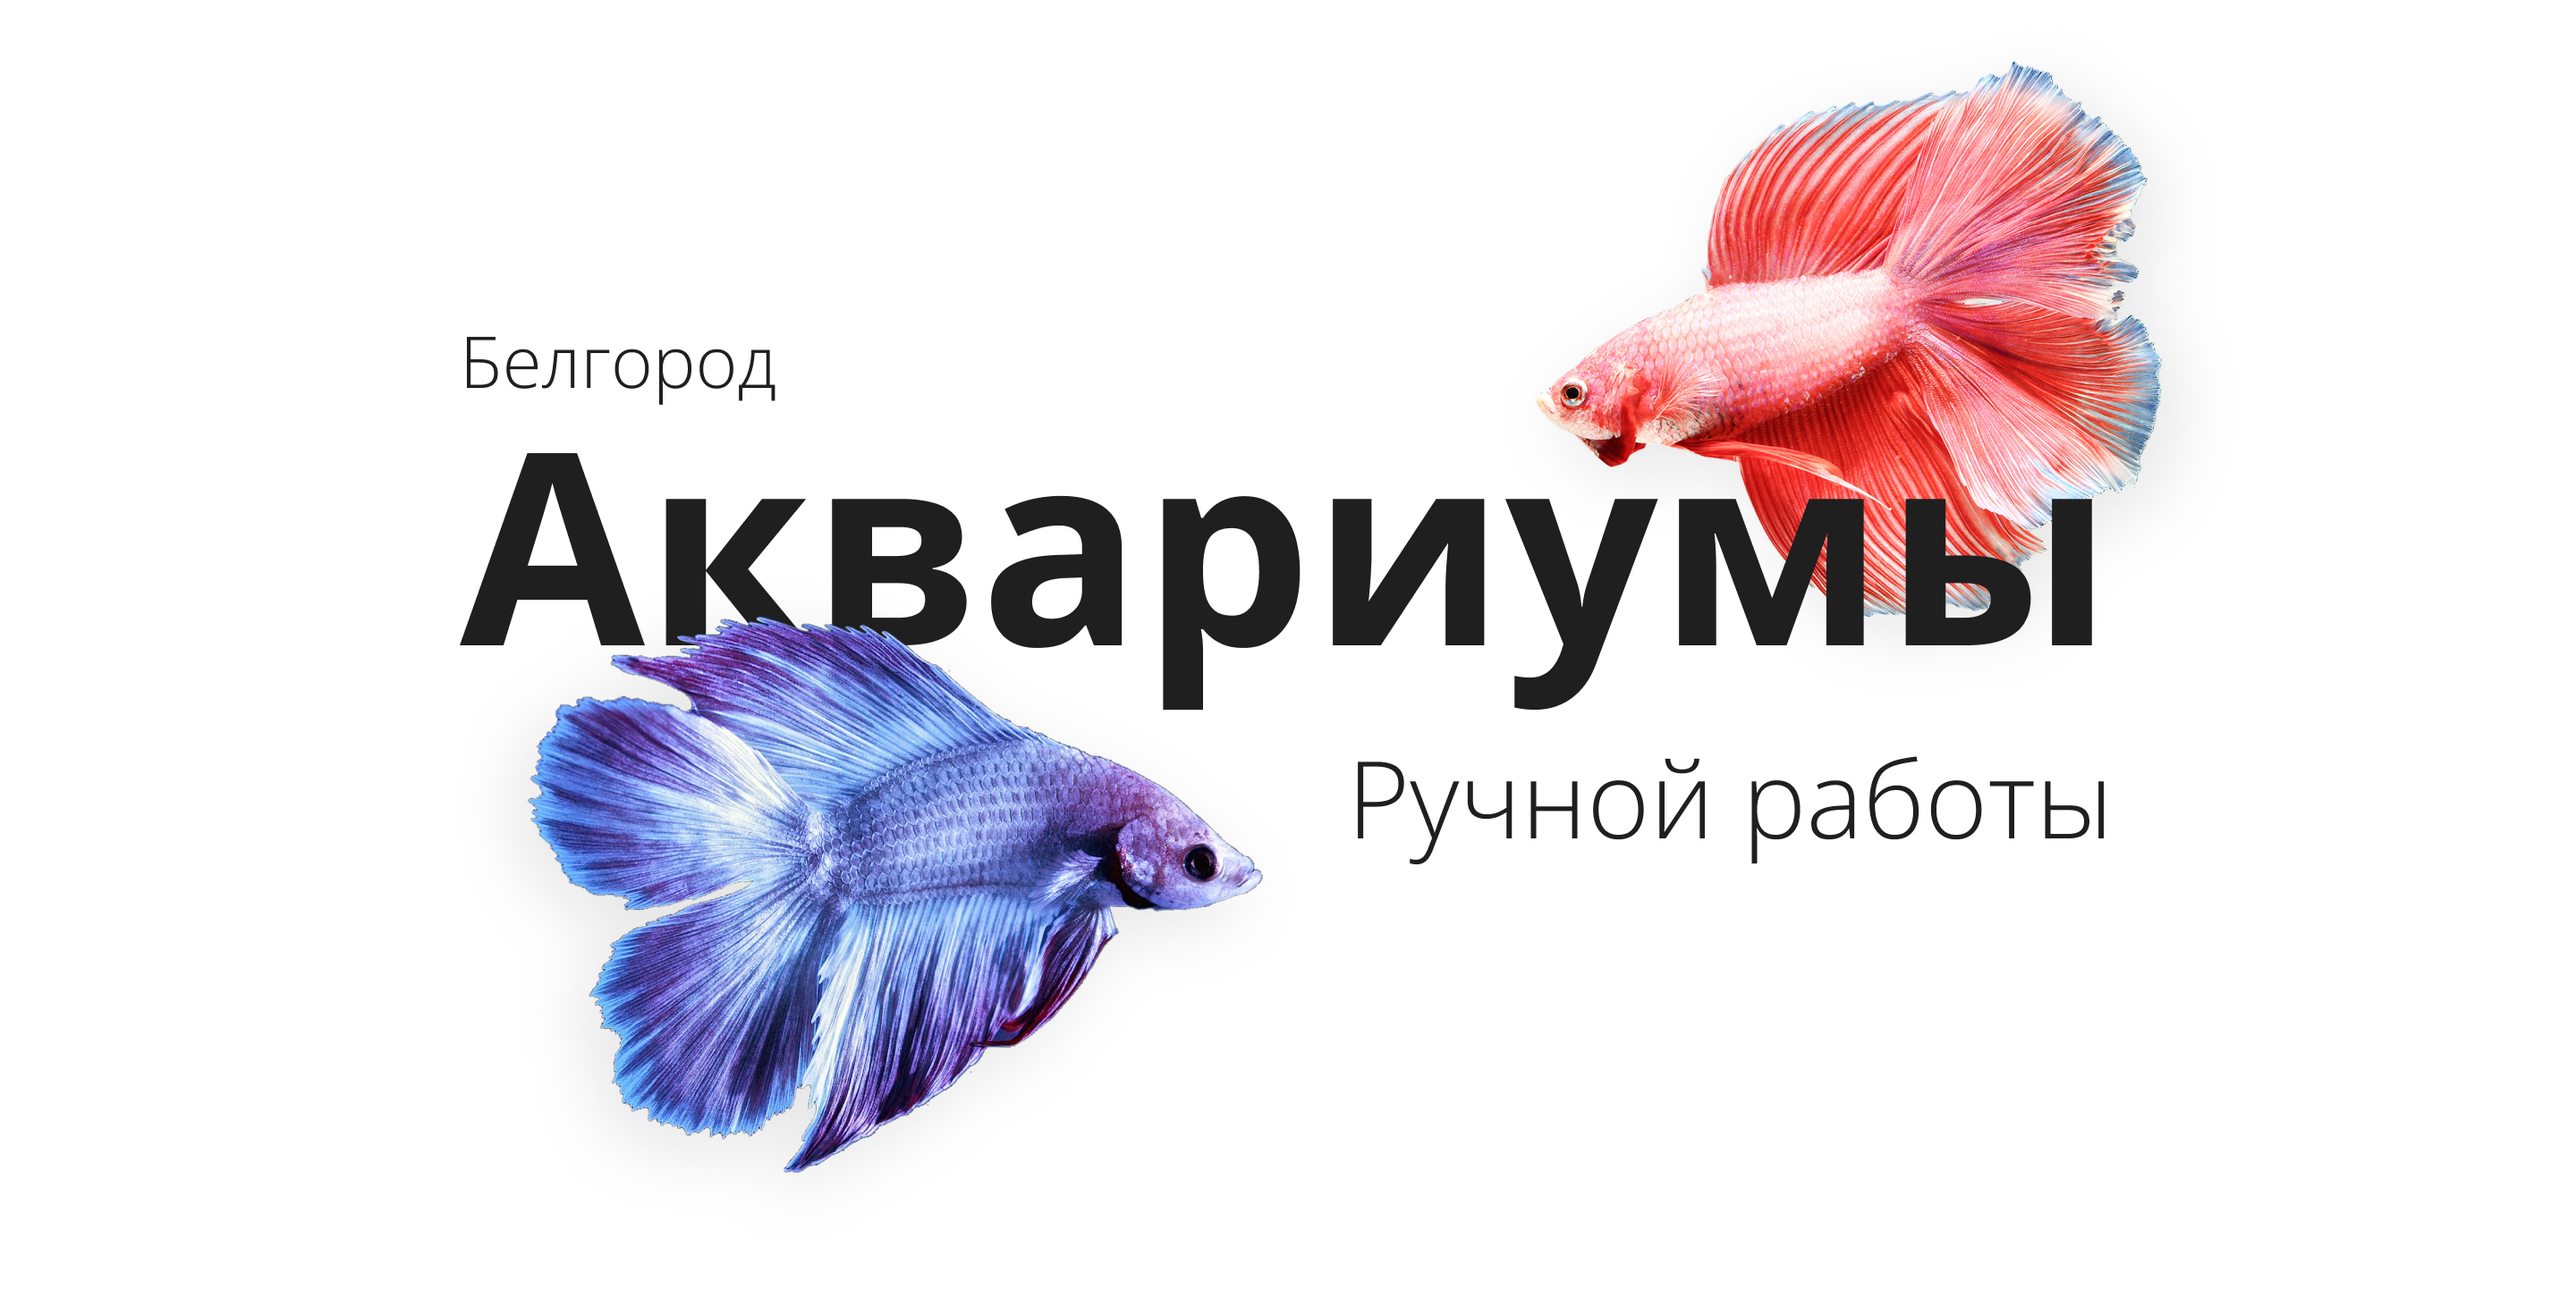
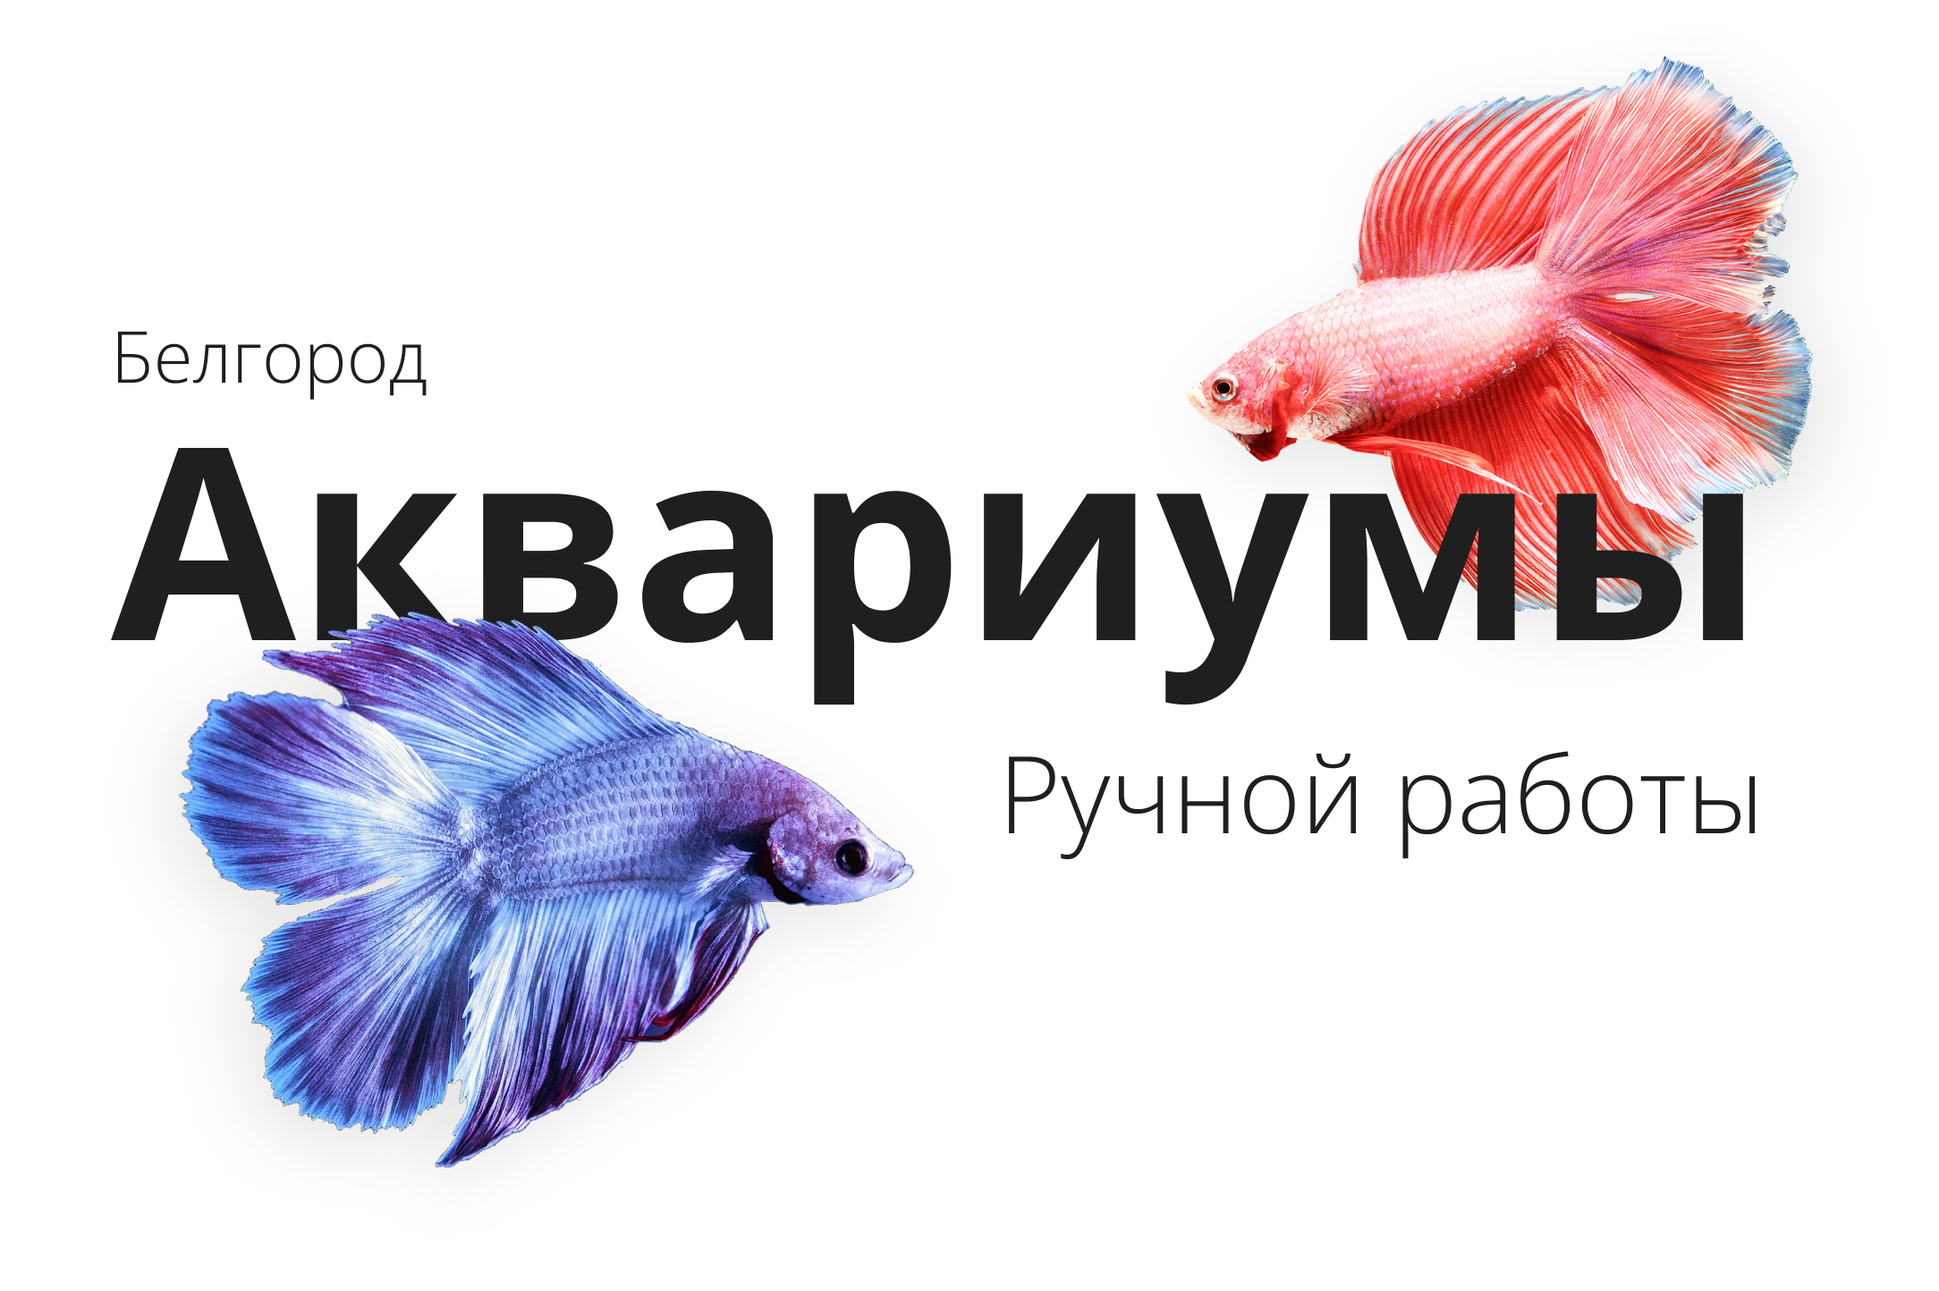
fixs and add catalog

Changed region(s): [[0.0618, 0.0312, 0.958, 0.9037], [0.4945, 0.5921, 0.8962, 0.6544], [0.0618, 0.2493, 0.309, 0.3116]]

diff --git a/css/style.css b/css/style.css
@@ -79,11 +79,11 @@ ul {
 .section-hero {
     position: relative;
     padding: 0 !important;
-    background-image: url(/img/hero-img.png);
+    background: url(../img/hero-img.png) center center no-repeat;
     width: 100%;
-    height: 700px;
+    height: 805px;
     background-repeat: no-repeat;
-    background-size: contain;
+    background-size: cover;
 }
 
 /* .btn {
@@ -112,7 +112,7 @@ ul {
 
 .why-us-advantages {
     height: 725px;
-    background-image: url(/img/section-why-us.png);
+    background-image: url(../img/section-why-us.png);
     background-repeat: no-repeat;
     background-position: 50% -65%;
 }
@@ -163,6 +163,146 @@ ul {
     margin-top: 250px;
 }
 
+/* section catalog */
+
+.catalog-title {
+    font-family: 'Open Sans';
+    font-style: normal;
+    font-weight: 300;
+    font-size: 36px;
+    line-height: 49px;
+    text-align: center;
+    color: #3C3C3C;
+    margin-bottom: 70px;
+}
+
+.element-title {
+    font-family: 'Open Sans';
+    font-style: normal;
+    font-weight: 300;
+    font-size: 36px;
+    line-height: 49px;
+    text-align: center;
+    color: #3C3C3C;
+}
+
+.catalog-components {
+    display: flex;
+    justify-content: center;
+    margin-bottom: 70px;
+}
+
+.catalog-components-first-container {
+    display: flex;
+    flex-wrap: wrap;
+    justify-content: center;
+}
+
+.catalog-components-first-container-second-block {
+    display: flex;
+    justify-content: space-evenly;
+}
+
+.catalog-components-first-container_element-one {
+    width: 769px;
+    height: 250px;
+    display: flex;
+    background: linear-gradient(262.19deg, #EEEEEE 0%, #F7F7F7 100%);
+    border-radius: 10px;
+    border: none;
+    margin-bottom: 26px;
+}
+
+.element-one-description {
+    margin: 25px 35px 14px 35px;
+}
+
+.element-one-description-catalog-description {
+    font-family: 'Open Sans';
+    font-style: normal;
+    font-weight: 300;
+    font-size: 14px;
+    line-height: 19px;
+}
+
+.element-description-element-price {
+    font-family: 'Open Sans';
+    font-style: normal;
+    font-weight: 300;
+    font-size: 30px;
+    line-height: 41px;
+    margin-bottom: 25px;
+    margin-top: 4px;
+}
+
+.element-description-button {
+    padding: 10px 50px 12px;
+    width: 251px;
+    height: 47px;
+    background: linear-gradient(266.17deg, #258BE9 0%, #51A7F7 100%);
+    border-radius: 57px;
+    font-family: 'Open Sans';
+    font-style: normal;
+    font-weight: 500;
+    font-size: 18px;
+    line-height: 25px;
+    color: #FFFFFF;
+    border: none;
+}
+
+.element-one-image {
+    margin: 20px 20px 13px 0;
+}
+
+.element-one-image > img {
+    border-radius: 10px;
+    border: none;
+}
+
+.catalog-components-second-container_element-two {
+    width: 365px;
+    height: 528px;
+    background: linear-gradient(262.19deg, #EEEEEE 0%, #F7F7F7 100%);
+    border-radius: 10px;
+    border: none;
+}
+
+.element-two-image {
+    margin-right: 10px;
+    margin-left: 20px;
+}
+
+.element-two-description {
+    margin-right: 10px;
+    margin-left: 10px;
+    text-align: center;
+}
+
+.element-two-description-catalog-description {
+    font-family: 'Open Sans';
+    font-style: normal;
+    font-weight: 300;
+    font-size: 14px;
+    line-height: 19px;
+}
+
+.flex-container_element-three {
+    width: 323px;
+    height: 250px;
+    background: linear-gradient(262.19deg, #EEEEEE 0%, #F7F7F7 100%);
+    border-radius: 10px;
+    border: none;
+}
+
+
+.flex-container_element-four {
+    width: 323px;
+    height: 250px;
+    background: linear-gradient(262.19deg, #EEEEEE 0%, #F7F7F7 100%);
+    border-radius: 10px;
+    border: none;
+}
+
 /* section form */
 
 .section-form {
@@ -181,7 +321,7 @@ ul {
     bottom: 0px;
     left: 70%;
     z-index: 5;
-    background: url(/img/form-fish2.png);
+    background: url(../img/form-fish2.png);
     background-repeat: no-repeat;
 }
 
@@ -193,7 +333,7 @@ ul {
     bottom: 0px;
     left: -3%;
     z-index: 5;
-    background: url(/img/form-fish1.png);
+    background: url(../img/form-fish1.png);
     background-repeat: no-repeat;
 }
 

diff --git a/index.html b/index.html
@@ -100,6 +100,51 @@
                         </div>
                     </div>
                 </section>
+                <section class="section-catalog col-md-12">
+                    <h3 class="catalog-title">
+                        Наши аквариумы
+                    </h3>
+                    <div class="catalog-components col-md-12">
+                        <div class="catalog-components-first-container col-md-8">
+                            <div class="catalog-components-first-container_element-one">
+                                <div class="element-one-description">
+                                    <h3 class="element-title">
+                                        Прямоугольные
+                                    </h3>
+                                    <div class="element-one-description-catalog-description">
+                                        Стандартный аквариум, отлично подойдет для первого опыта
+                                    </div>
+                                    <div class="element-description-element-price">от 4064 р</div>
+                                    <button class="element-description-button">Рассчитать цену</button>
+                                </div>
+                                <div class="element-one-image">
+                                    <img src="./img/elem1.png">
+                                </div>
+                            </div>
+                            <div class="catalog-components-first-container-second-block col-md-12">
+                                <div class="flex-container_element-three col-md-5">flex-элемент #3</div>
+                                <div class="flex-container_element-four col-md-5">flex-элемент #4</div>
+                            </div>
+                        </div>
+                        <div class="catalog-components-second-container col-md-4">
+                            <div class="catalog-components-second-container_element-two">
+                                <div class="element-two-image">
+                                    <img src="./img/elem2.png">
+                                </div>
+                                <div class="element-two-description">
+                                    <h3 class="element-title">
+                                        Террариумы
+                                    </h3>
+                                    <div class="element-two-description-catalog-description">
+                                        Стандартный аквариум, отлично подойдет для первого опыта
+                                    </div>
+                                    <div class="element-description-element-price">от 4064 р</div>
+                                    <button class="element-description-button">Рассчитать цену</button>
+                                </div>
+                            </div>
+                        </div>
+                    </div>
+                </section>
                 <section class="section-form col-md-12">
                     <div class="inner-form">
                         <form class="form col-md-5">

diff --git a/css/custom.css b/css/custom.css
@@ -1,17 +1,17 @@
 .btn {
-    padding: 10px 50px 12px 50px;
+    padding: 12px 72px 14px 72px;
     background: linear-gradient(266.17deg, #258BE9 0%, #51A7F7 100%);
     border-radius: 57px;
     line-height: 30px;
     font-weight: 600;
-    font-size: 22px;
+    font-size: 24px;
     color: white;
 }
 
 .btn-hero {
     position: absolute;
-    top: 68%;
-    right: 18%;
+    top: 73%;
+    right: 9%;
 }
 
 .btn-primary {
